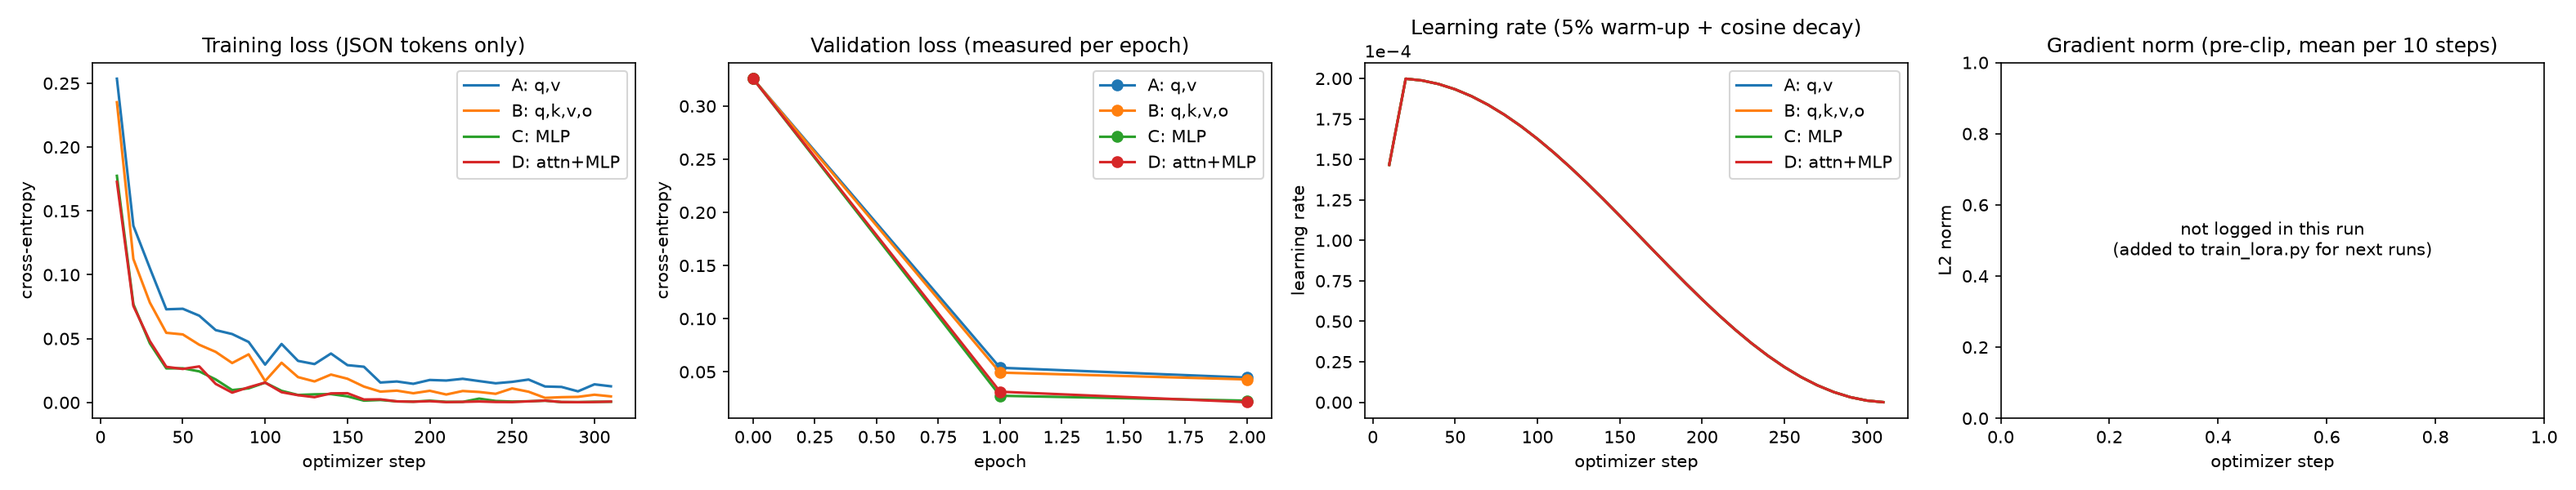
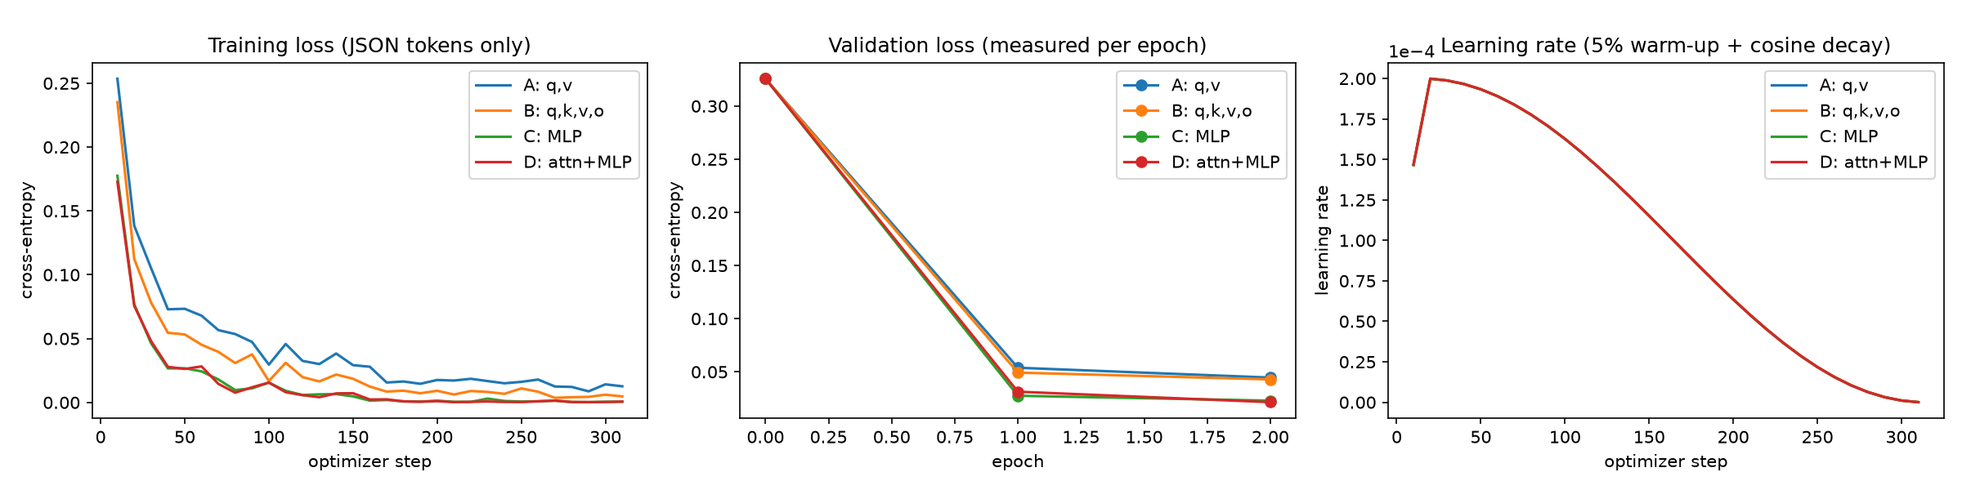
Training curves: 3 panels (training loss, validation loss, learning rate)

diff --git a/scripts/plot_results.py b/scripts/plot_results.py
@@ -26,7 +26,7 @@ def main():
     runs, ev = Path(a.runs), Path(a.eval)
 
     # 1) training + validation loss curves
-    fig, ax = plt.subplots(1, 4, figsize=(21, 4))
+    fig, ax = plt.subplots(1, 3, figsize=(16, 4))
     for e in EXPS:
         p = runs / e / "train_log.json"
         if not p.exists():
@@ -42,20 +42,12 @@ def main():
         vs = [(x["step"], x["val_loss_step"]) for x in h if "val_loss_step" in x]
         if vs:   # detailed validation curve (runs logged with val_every)
             ax[1].plot(*zip(*vs), marker=".", label=LABEL[e] + " (per step)")
-        gn = [(x["step"], x["grad_norm_mean"]) for x in h if "grad_norm_mean" in x]
-        if gn:
-            ax[3].plot(*zip(*gn), label=LABEL[e])
         if va and not vs:
             ax[1].plot([0] + [v[0] for v in va], [json.loads(p.read_text())["val_loss_before"]] + [v[1] for v in va], marker="o", label=LABEL[e])
     ax[0].set(title="Training loss (JSON tokens only)", xlabel="optimizer step", ylabel="cross-entropy"); ax[0].legend()
     ax[1].set(title="Validation loss (measured per epoch)", xlabel="epoch", ylabel="cross-entropy"); ax[1].legend()
     ax[2].set(title="Learning rate (5% warm-up + cosine decay)", xlabel="optimizer step", ylabel="learning rate"); ax[2].legend()
     ax[2].ticklabel_format(axis="y", style="sci", scilimits=(0, 0))
-    ax[3].set(title="Gradient norm (pre-clip, mean per 10 steps)", xlabel="optimizer step", ylabel="L2 norm")
-    if ax[3].lines:
-        ax[3].legend()
-    else:
-        ax[3].text(0.5, 0.5, "not logged in this run\n(added to train_lora.py for next runs)", ha="center", va="center", transform=ax[3].transAxes)
     fig.tight_layout(); fig.savefig(OUT / "lora_loss_curves.png", dpi=150); plt.close(fig)
 
     # 2) quality comparison: base vs A-D on test

diff --git a/report/TRONX_Technical_Report.md b/report/TRONX_Technical_Report.md
@@ -207,7 +207,6 @@ Each sample is a chat: the **system prompt** (schema + 7 examples, 490 tokens), 
 | Effective batch | 16 (micro-batch 1 × gradient accumulation 16) | T4 16 GB memory: Mamba2 runs a PyTorch fallback with large activations |
 | Max length | 640 tokens | Longest sample is 553 tokens (system prompt 490) |
 | Precision | FP32 | T4 has no BF16; avoids FP16 overflow in the Mamba fallback |
-| Gradient clipping | max norm 1.0 | Stability |
 | Loss | Cross-entropy on JSON tokens only | Teaches the output, not the prompt |
 | Seed | 42 | Reproducibility |
 | Hardware | Kaggle 2× NVIDIA T4 (one run per GPU) | Mac MPS was ~6–9 h per run |
@@ -638,7 +637,6 @@ Per intent, `send_message` is the weakest (59.7% exact on the test set): the mod
 - **English only.** No Hindi, Tamil or code-mixed commands.
 - **Synthetic data:** real-user phrasing will be more diverse than the templates.
 - **Measurement gaps:**
-  - Gradient norm and fine-grained validation curves were not logged in the reported training runs. Validation loss was measured per epoch; the script now logs these for future runs.
   - Phone RAM after unloading the model stays at about 1.39 GB because the native allocator keeps freed pages.
   - The thermal headroom API is not supported on this phone.
 

diff --git a/training/README.md b/training/README.md
@@ -24,7 +24,6 @@ LoRA fine-tuning of `ibm-granite/granite-4.0-h-350m` on the TronOS command datas
 | Batch | micro-batch 1 × gradient accumulation 16 = 16 |
 | Max length | 640 tokens (longest sample 551) |
 | Precision | FP32 |
-| Gradient clipping | max norm 1.0 |
 | Loss | Cross-entropy on the assistant JSON tokens only (system prompt + command masked) |
 | Seed | 42 |
 
